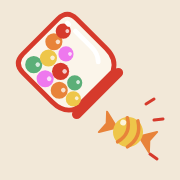
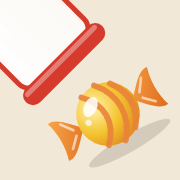
Add files via upload

diff --git a/index.html b/index.html
@@ -6,7 +6,7 @@
 <meta name="apple-mobile-web-app-capable" content="yes">
 <title>Wordrop</title>
 <meta name="apple-mobile-web-app-title" content="Wordrop">
[2 lines of base64/hex data omitted]
 <link rel="apple-touch-icon" href="apple-touch-icon.png">
 <link rel="preconnect" href="https://fonts.googleapis.com">
 <link rel="preconnect" href="https://fonts.gstatic.com" crossorigin>
@@ -368,7 +368,7 @@ function zhFor(parts, s, e){
     .map(c => c.text).join(' ').replace(/\s+/g,'，').replace(/，([，。？！、…])/g,'$1');
 }
 
-const VERSION = '2026.10.20-3';
+const VERSION = '2026.10.20-4';
 
 // ===== 連線 =====
 const $ = (id) => document.getElementById(id);
